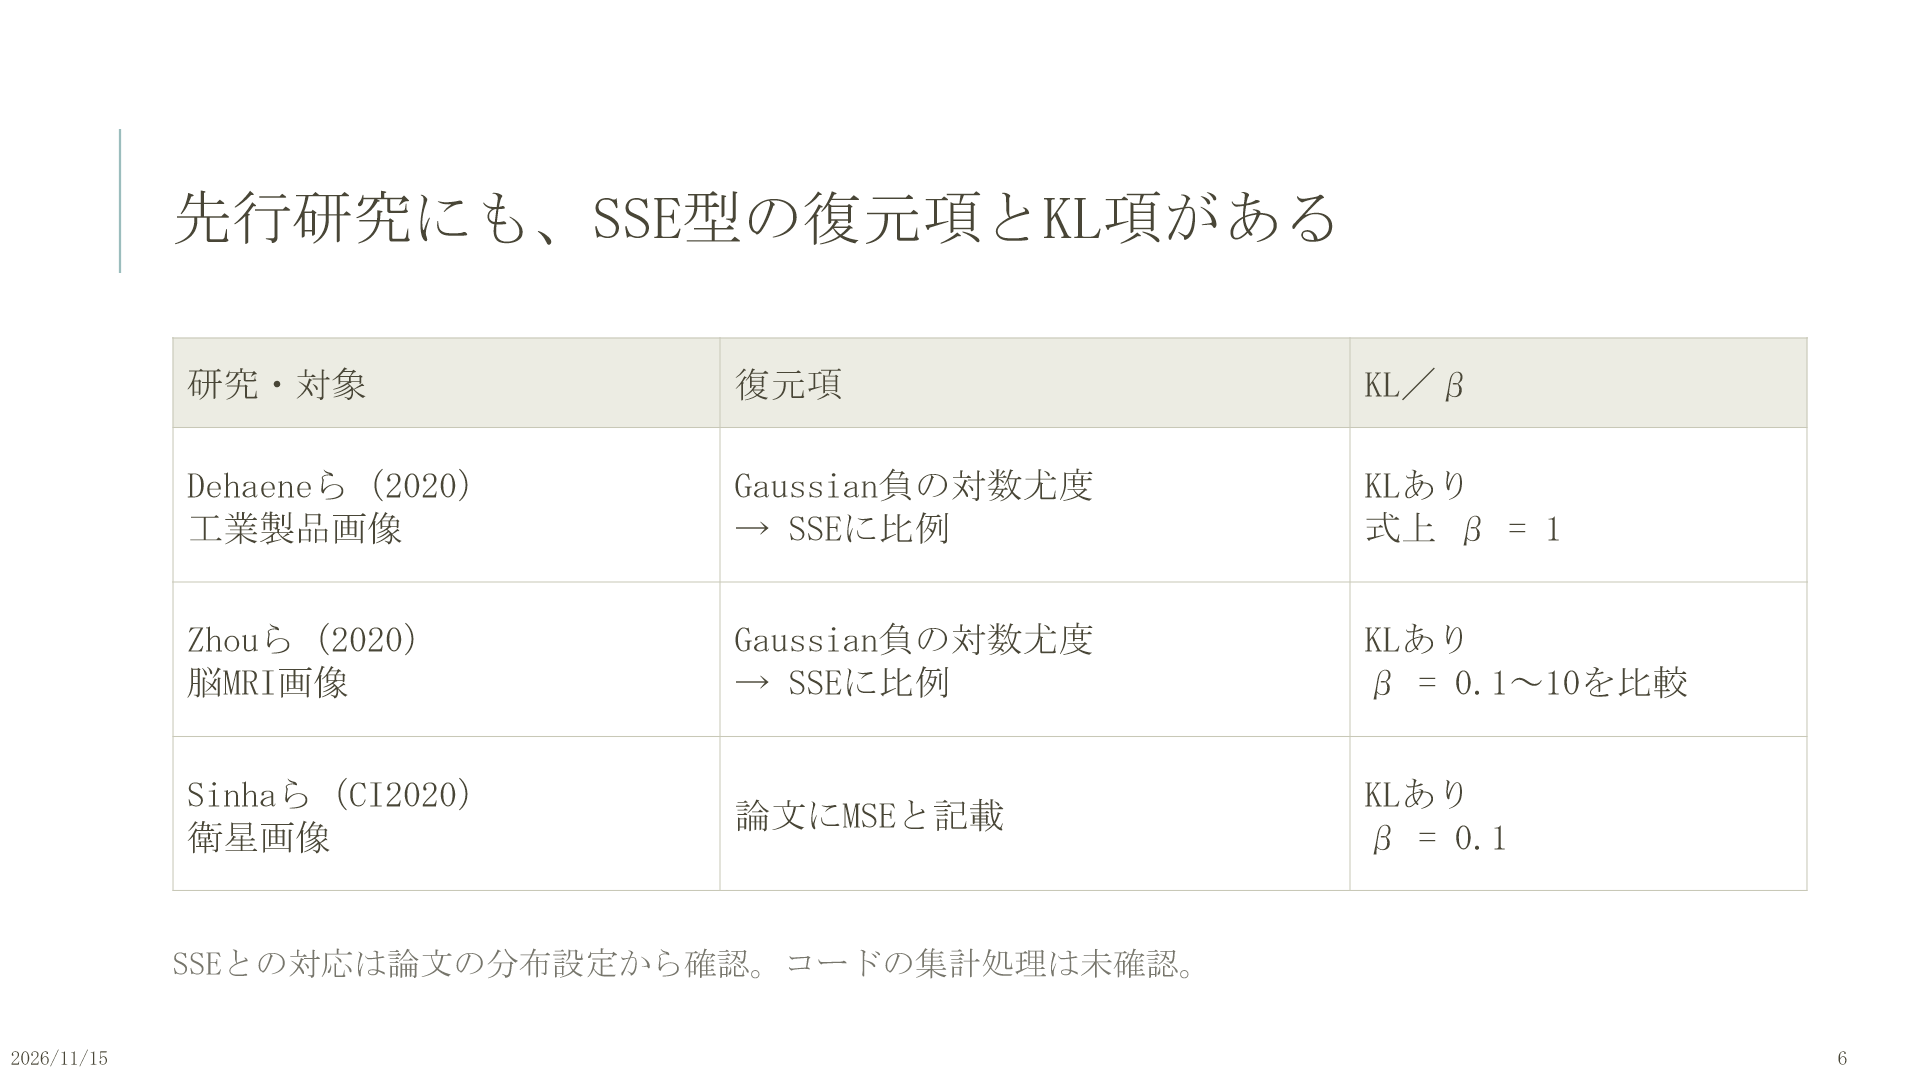
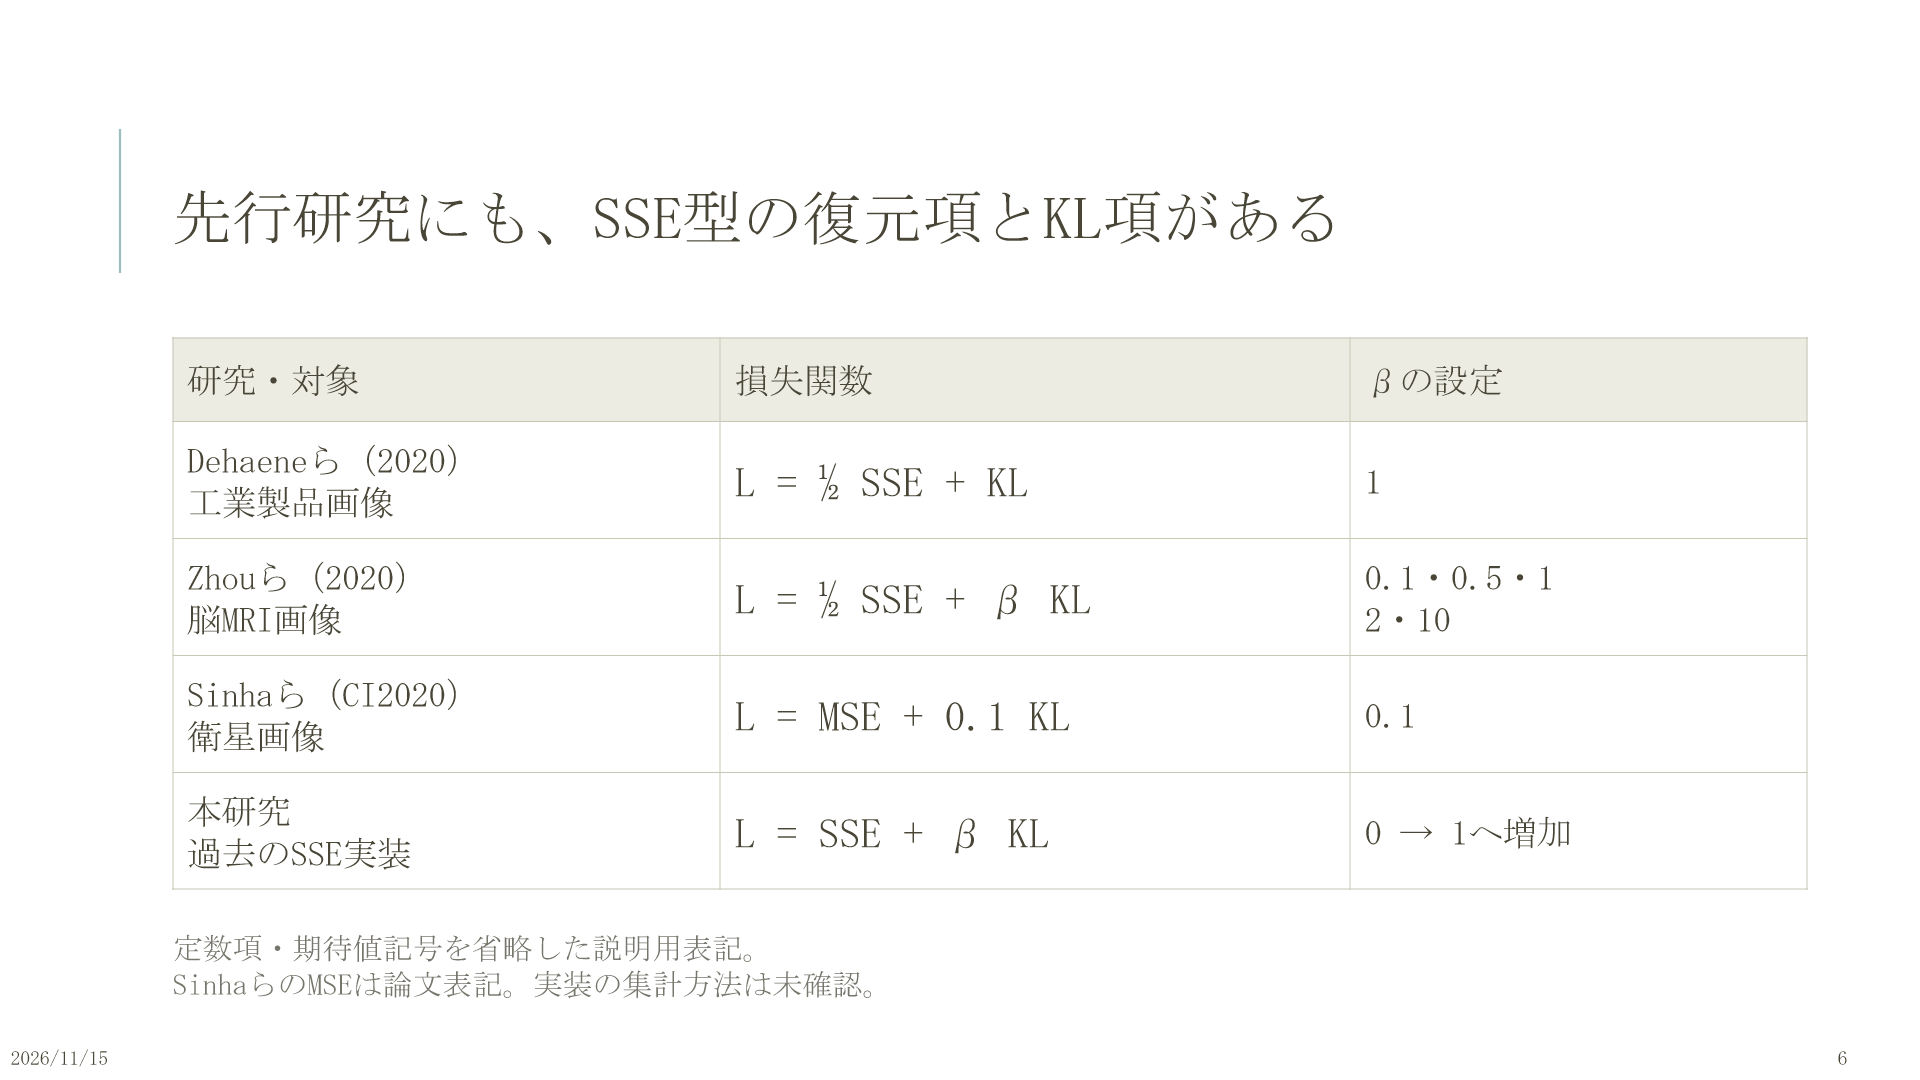
docs: 先行研究と本研究の損失関数を比較表に明記

diff --git a/memory/memory.md b/memory/memory.md
@@ -544,3 +544,10 @@
 * **資料：** 本文8枚＋補足2枚の新規PPTXを `C:\Users\tokiy\OneDrive\01_研究\報告会\2026年度\11月\AI作成\報告会_20261115(AI作成).pptx` に保存する。前回の16:9・ＭＳ 明朝・配色を継承し、文字・数式・2つの比較表は編集可能。発表ノートと出典を付け、当初の経緯→研究室内の設定→先行研究→正規分布からの根拠→SSE採用とβの今後の調整、の順に報告する。係数の2倍の比較は取り上げない。
 * **発表メモ・プレビュー：** `reports/2026年度秋セメスター/20261115/報告会_20261115_構成と発表メモ.md` をOneDriveの11月フォルダにも同時保存。全10ページのPNGと一覧をリポジトリの同報告フォルダの `previews/` に保存する。PPTXはOneDriveのみ。既存の報告資料は変更しない。
 * **確認・Git：** 全10ページを描画して文字・数式・表・出典の配置を目視確認。PPTXパッケージ・サイズ・フォント・表2点・再読み込みの検証を完了。PowerPoint本体での開封確認は未実施。新規学習・推論・評価は行わず、今回の発表メモ・プレビュー・memoryのみをローカルコミットし、pushは行わない。
+
+
+## 73. 2026-11-15：先行研究と本研究の損失関数を式で比較する表へ更新
+* **ユーザー承認：** OneDriveの `11月/AI作成/報告会_20261115(AI作成).pptx` の6枚目を「研究・対象／損失関数／βの設定」の編集可能な表へ更新した。
+* **4例：** DehaeneらはL=½SSE+KL・β=1、ZhouらはL=½SSE+βKL・β=0.1,0.5,1,2,10、SinhaらはL=MSE+0.1KL・β=0.1、本研究の過去の実装はL=SSE+βKL・βを0→1へ増加。定数項と期待値記号を省略した説明用表記であること、SinhaらのMSEは論文表記で実装の集計は未確認であることを注記した。
+* **維持・確認：** 更新直前のPPTXを一時フォルダにバックアップ。元PPTXにユーザーが行った5枚目の氏名入りの編集も維持した。全10枚を再描画し、6枚目を目視確認、他9枚は現在のバックアップとの描画画像が完全一致。スライド数・サイズ・フォント・パッケージ・表2点・再読み込みを確認した。PowerPoint本体での開封確認は未実施。
+* **記録・Git：** 発表ノート、リポジトリとOneDriveの発表メモ、6枚目および現在のユーザー編集を反映した5枚目のプレビュー、一覧画像を更新。今回のリポジトリ内の変更だけローカルコミットし、PPTXはOneDriveのみへ保存する。学習・評価・pushは行わない。
